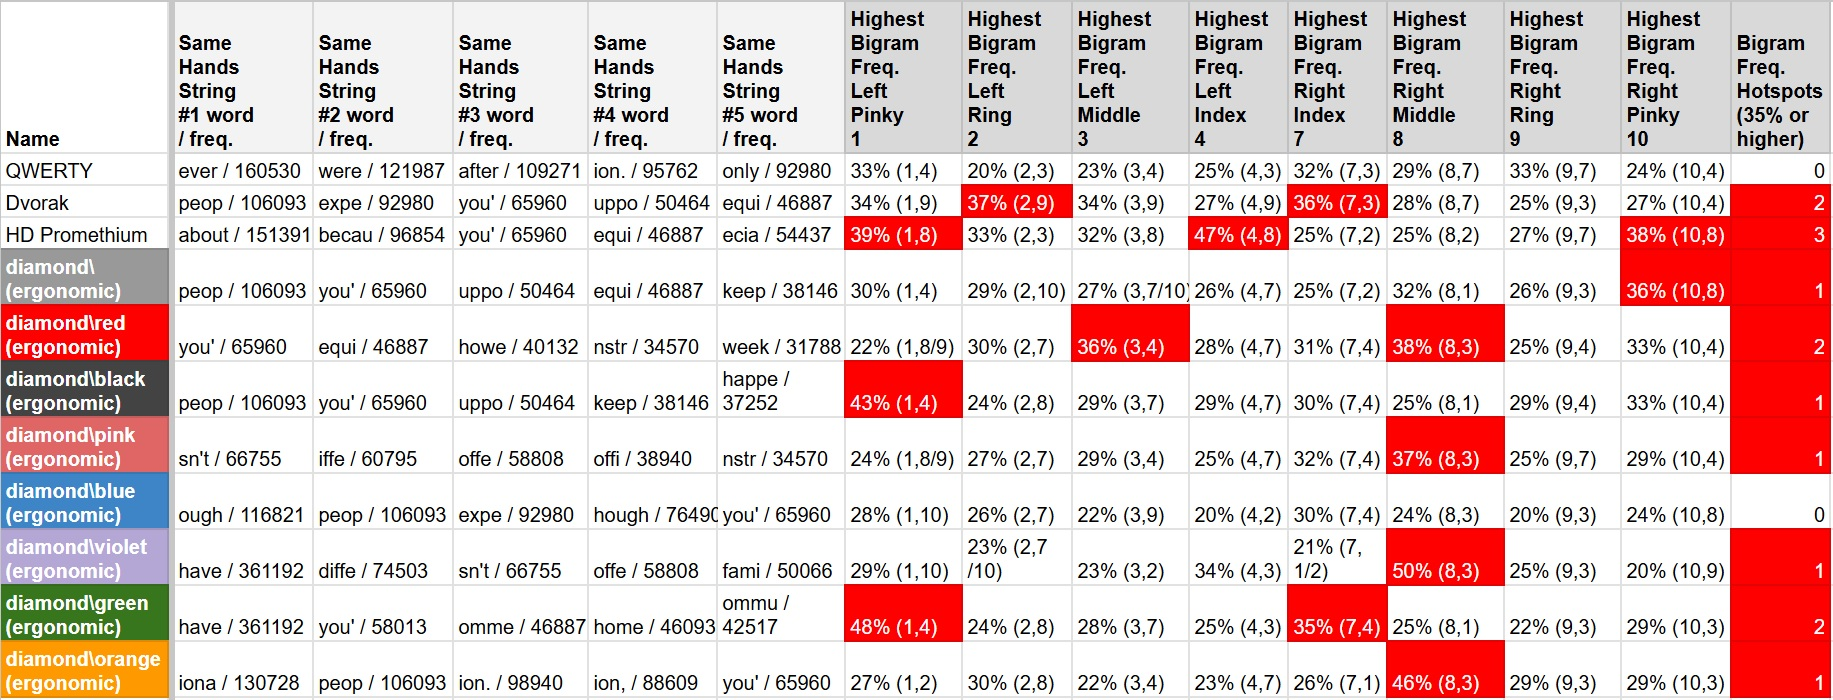
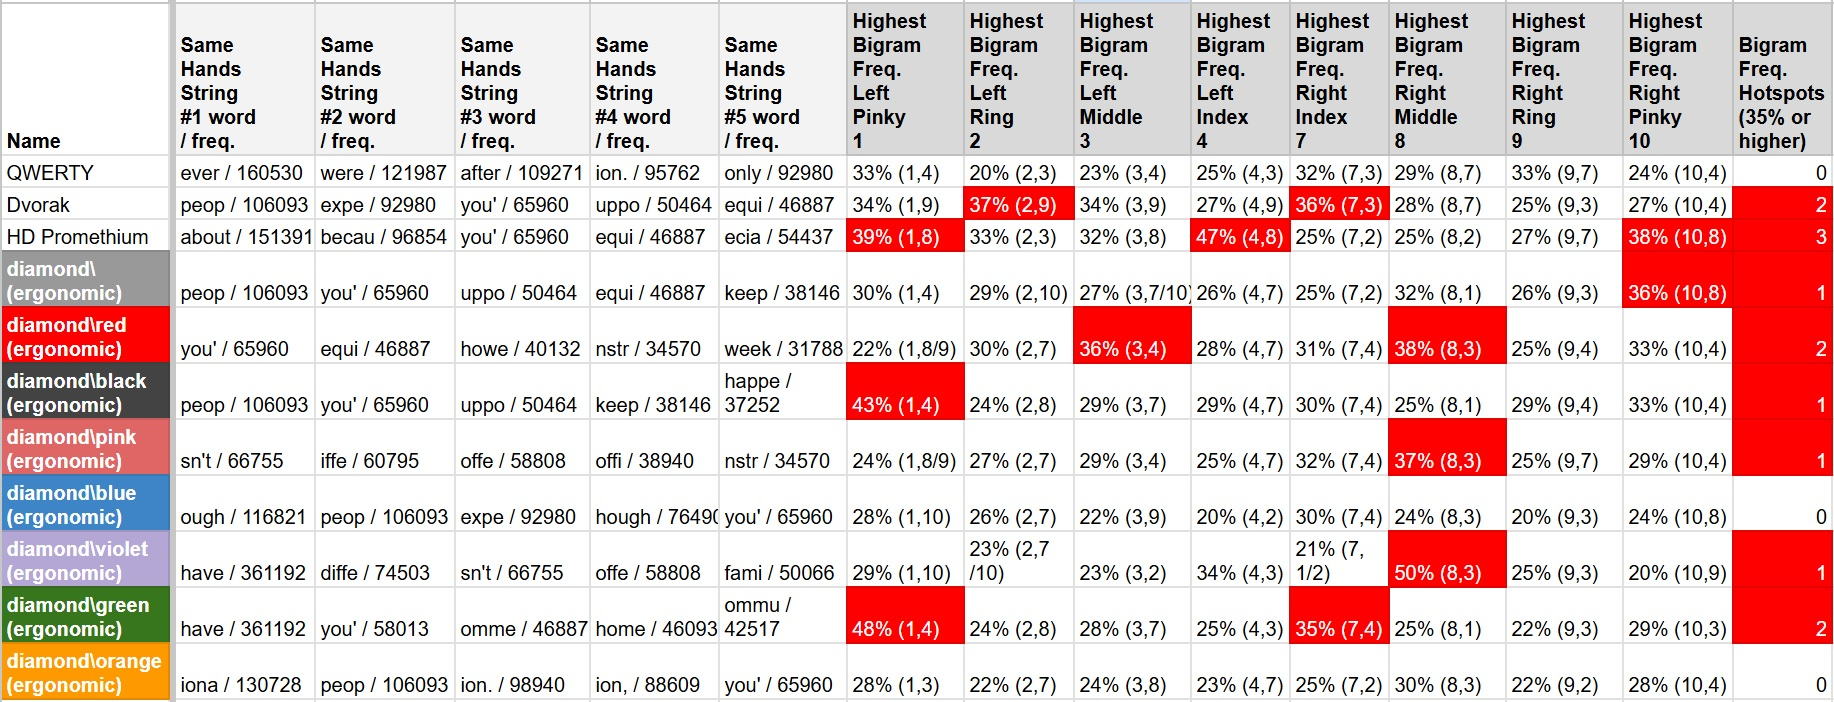
updated diamond\orange ergonomic showing initial version and latest version, fixed typos, added more detail

Changed region(s): [[0.0, 0.0, 1.0, 1.0]]

diff --git a/README.md b/README.md
@@ -368,39 +368,39 @@ I originally wanted diamond\blue to be like diamond\red but with a lower same fi
 
 With making so many keyboard layouts, I spent time learning all the row-staggered versions via the website keybr dot com. Here are all of them below with the dates they were fully completed or finished without fully unlocking J to save for time.
 
-diamond\, unlocked all keys on January 24th 2026:
+diamond\\, unlocked all keys on January 24th 2026:
 ![screenshot from keybr for learning the above layout](https://raw.githubusercontent.com/r134x7/diamond_backslash/refs/heads/main/images/keybr_diamond_backslash_original_1.jpg)
 
-diamond\black (old version), finished with J left to unlock on January 12th 2026:
+diamond\\black (old version), finished with J left to unlock on January 12th 2026:
 ![screenshot from keybr for learning the above layout](https://raw.githubusercontent.com/r134x7/diamond_backslash/refs/heads/main/images/keybr_diamond_backslash_black_1.jpg)
 
-diamond\black (latest version), unlocked all keys on January 26th 2026:
+diamond\\black (latest version), unlocked all keys on January 26th 2026:
 ![screenshot from keybr for learning the above layout](https://raw.githubusercontent.com/r134x7/diamond_backslash/refs/heads/main/images/keybr_diamond_backslash_black_2.jpg)
 
-diamond\red (old version), finished with J left to unlock on January 15th 2026:
+diamond\\red (old version), finished with J left to unlock on January 15th 2026:
 ![screenshot from keybr for learning the above layout](https://raw.githubusercontent.com/r134x7/diamond_backslash/refs/heads/main/images/keybr_diamond_backslash_red_1.jpg)
 
-diamond\red (second latest version before swapping the J and V keys), finished with J left to unlock on January 24th 2026:
+diamond\\red (second latest version before swapping the J and V keys), finished with J left to unlock on January 24th 2026:
 ![screenshot from keybr for learning the above layout](https://raw.githubusercontent.com/r134x7/diamond_backslash/refs/heads/main/images/keybr_diamond_backslash_red_2.jpg)
 
-diamond\blue (second latest version before swapping the J and V keys), finished with J left to unlock on January 25th 2026:
+diamond\\blue (second latest version before swapping the J and V keys), finished with J left to unlock on January 25th 2026:
 ![screenshot from keybr for learning the above layout](https://raw.githubusercontent.com/r134x7/diamond_backslash/refs/heads/main/images/keybr_diamond_backslash_blue_1.jpg)
 
-diamond\pink (old version), finished with J left to unlock on January 17th 2026:
+diamond\\pink (old version), finished with J left to unlock on January 17th 2026:
 ![screenshot from keybr for learning the above layout](https://raw.githubusercontent.com/r134x7/diamond_backslash/refs/heads/main/images/keybr_diamond_backslash_pink_1.jpg)
 
-diamond\pink (latest version), unlocked all keys on January 26th 2026:
+diamond\\pink (latest version), unlocked all keys on January 26th 2026:
 ![screenshot from keybr for learning the above layout](https://raw.githubusercontent.com/r134x7/diamond_backslash/refs/heads/main/images/keybr_diamond_backslash_pink_2.jpg)
 
-diamond\violet, finished with J left to unlock on January 25th 2026:
+diamond\\violet, finished with J left to unlock on January 25th 2026:
 ![screenshot from keybr for learning the above layout](https://raw.githubusercontent.com/r134x7/diamond_backslash/refs/heads/main/images/keybr_diamond_backslash_violet_1.jpg)
 
-diamond\green, finished with J left to unlock on January 21st 2026:
+diamond\\green, finished with J left to unlock on January 21st 2026:
 ![screenshot from keybr for learning the above layout](https://raw.githubusercontent.com/r134x7/diamond_backslash/refs/heads/main/images/keybr_diamond_backslash_green_1.jpg)
 
 ---
 
-Adding to the above, I kept track of the amount of days I spent learning each layout. It is in chronological order with diamond\ being the first layout I was learning on keybr dot com on day one to finishing with diamond\pink (latest version) on day 40.
+Adding to the above, I kept track of the amount of days I spent learning each layout. It is in chronological order with diamond\\ being the first layout I was learning on keybr dot com on day one to finishing with diamond\\pink (latest version) on day 40.
 
 1:
 diamond\\
@@ -427,7 +427,7 @@ diamond\\red (old version)
 
 3:
 diamond\\black (old version)
-- started on day 11
+- started on day 11 (for all layouts)
 - took 1 day to reach E,N,I,A,R,L,T,O,S,U,D,Y,C
 - took 3 days to reach E,N,I,A,R,L,T,O,S,U,D,Y,C,G
 - took 5 days to reach E,N,I,A,R,L,T,O,S,U,D,Y,C,G,H
@@ -486,12 +486,14 @@ diamond\\blue
 
 9:
 diamond\\black (latest version)
+- started on day 40 (for all layouts)
 - took 1 day to reach E,N,I,A,R,L,T,O,S,U,D,Y,C,G,H,P,M,K,B,W,F,V,Q,J.
 - currently day 1 - All keys unlocked!
 - finished on day 40 (for all layouts)
 
 10:
 diamond\\pink (latest version)
+- started on day 40 (for all layouts)
 - took 1 day to reach E,N,I,A,R,L,T,O,S,U,D,Y,C,G,H,P,M,K,B,W,F,V,Q,J.
 - currently day 1 - All keys unlocked!
 - finished on day 40 (for all layouts)

diff --git a/proof_of_concepts/diamond_backslash_orange ergonomic version/description.md b/proof_of_concepts/diamond_backslash_orange ergonomic version/description.md
@@ -2,20 +2,31 @@
 
 The diamond\orange mirroring keyboard layout can only work with ergonomic keyboards hence there is no row-staggered version because this keyboard layout strictly requires a thumb key for the letter 'E' to work.
 
-Here is a screenshot of the layout by using the analytical data from the webpage [created by cyanophage on github.](https://cyanophage.github.io/)
+Here are screenshots of the layout by using the analytical data from the webpage [created by cyanophage on github.](https://cyanophage.github.io/)
 
-![image of diamond\\orange ergonomic version heatmap](https://raw.githubusercontent.com/r134x7/diamond_backslash/refs/heads/main/images/diamond_backslash_orange_ergonomic_heatmap.jpg)
+## INITIAL VERSION
 
-![image of diamond\\orange ergonomic version bigram frequency](https://raw.githubusercontent.com/r134x7/diamond_backslash/refs/heads/main/images/diamond_backslash_orange_ergonomic_bigram_frequency.jpg)
+![image of diamond\\orange ergonomic version initial heatmap](https://raw.githubusercontent.com/r134x7/diamond_backslash/refs/heads/main/images/diamond_backslash_orange_ergonomic_initial_heatmap.jpg)
+
+![image of diamond\\orange ergonomic version initial bigram frequency](https://raw.githubusercontent.com/r134x7/diamond_backslash/refs/heads/main/images/diamond_backslash_orange_ergonomic_initial_bigram_frequency.jpg)
+
+## LATEST VERSION
+
+![image of diamond\\orange ergonomic version latest heatmap](https://raw.githubusercontent.com/r134x7/diamond_backslash/refs/heads/main/images/diamond_backslash_orange_ergonomic_latest_heatmap.jpg)
+
+![image of diamond\\orange ergonomic version latest bigram frequency](https://raw.githubusercontent.com/r134x7/diamond_backslash/refs/heads/main/images/diamond_backslash_orange_ergonomic_latest_bigram_frequency.jpg)
 
 Note that you cannot remap keys on the above image, only swap them around.
 
-This keyboard layout was designed to see if I could reach the lowest word effort rating and lowest total word rating efforts possible on the analytical website from cyanophage on GitHub already listed above.
+How did this layout happen? I was looking at the finger distance travelled measurements and was impressed at how diamond\ ergonomic was faster than every other diamond\ ergonomic layout despite it being the first one I created.
 
-Its word effort rating matches that of diamond\red ergonomic but also reaches a total word effort rating even lower than diamond\black ergonomic.
+I tried to see if I could make diamond\pink ergonomic faster since its row-staggered version is the fastest but I couldn't. Then I went to analyze the diamond\ ergonomic layout and I thought, "What if I tried to create the right side layout from the ergonomic versions of diamond\red, diamond\black and diamond\pink while still having 'E' as the thumb key for diamond\ ergonomic?"
 
-Therefore, it has the lowest word effort and total word effort scores out of all the diamond\ mirroring keyboard layouts.
+There was space to move the H key above the O key like it was diamond\pink, that then gave room to put N on the home row so I moved a few keys around and that's how the initial version appeared.
 
+Now with the latest version, this is the lowest I could try getting not just a lower total word rating and lower word rating but also to reduce the initial version's redirect rates that went up to 4.41% total.
+
+---
 Since HD Promethium was an ergonomic keyboard layout I mentioned in the backstory of my readme in the repository, here are screenshots to show a comparison between HD Promethium and all of the diamond\ mirroring keyboard layout ergonomic versions:
 
 (The analytical data below came from the webpage [created by cyanophage on github.](https://cyanophage.github.io/))
